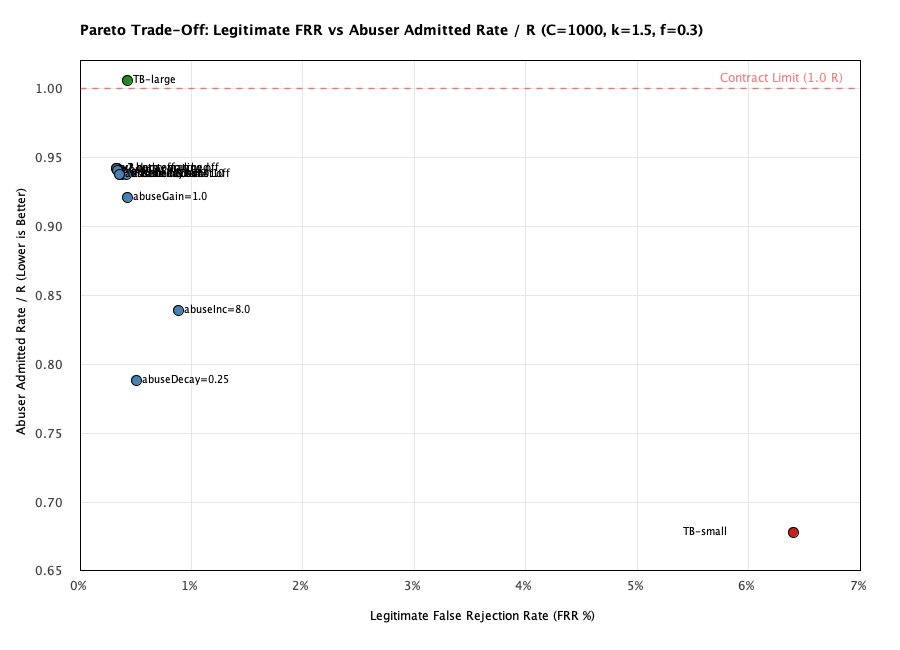
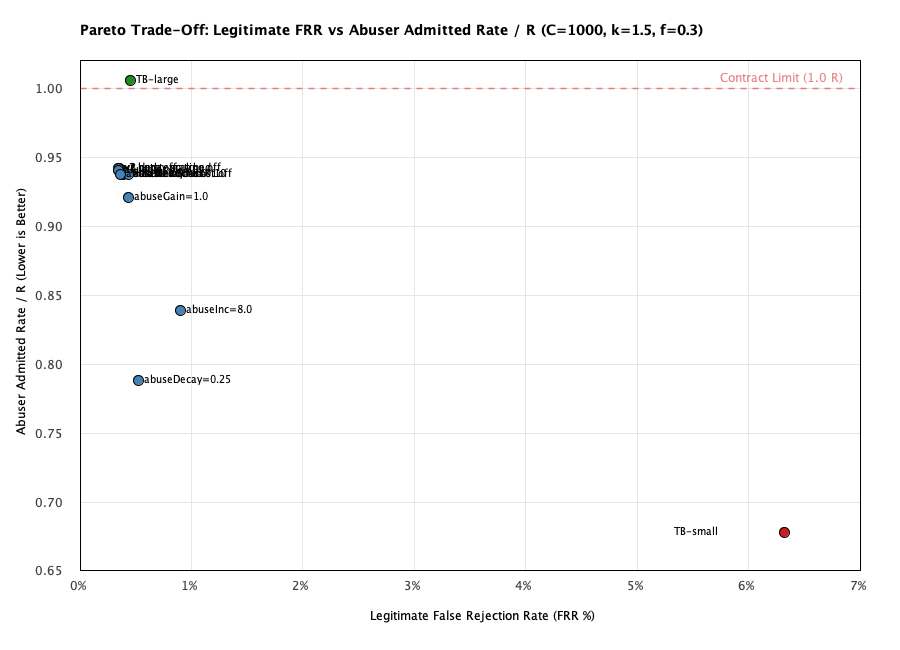
Complete official Experiment E3 run and evaluation

diff --git a/results/e3/README.md b/results/e3/README.md
@@ -11,38 +11,38 @@ Experiment E3 tests the contributions of DREB v2's adaptive terms and optimizes 
 
 | Configuration | Capacity | Initial State | Abuse Rej % | Norm Rate / R | Diff vs TB-lg | Diff vs v1 BM | Legit FRR % | Diff vs TB-lg | Diff vs v1 BM |
 | :--- | :---: | :---: | :---: | :---: | :---: | :---: | :---: | :---: | :---: |
-| TB-large | 1000 | coldStart | 33.1% | 1.006 | +0.000 [+0.000, +0.000] | +0.061 [+0.059, +0.063] | 0.41% | +0.00% [+0.00, +0.00] | +0.10% [+0.06, +0.13] |
-| TB-small | 1000 | coldStart | 54.9% | 0.678 | -0.328 [-0.328, -0.328] | -0.267 [-0.269, -0.265] | 6.26% | +5.85% [+5.39, +6.30] | +5.95% [+5.50, +6.40] |
-| TB-large | 1000 | preWarmed | 33.1% | 1.006 | +0.000 [+0.000, +0.000] | +0.061 [+0.059, +0.063] | 0.41% | +0.00% [+0.00, +0.00] | +0.10% [+0.06, +0.13] |
-| TB-small | 1000 | preWarmed | 54.9% | 0.678 | -0.328 [-0.328, -0.328] | -0.267 [-0.269, -0.265] | 6.26% | +5.85% [+5.39, +6.31] | +5.95% [+5.50, +6.41] |
-| v1 burst-matched | 1000 | coldStart | 37.4% | 0.942 | -0.064 [-0.064, -0.064] | -0.003 [-0.005, -0.001] | 0.33% | -0.09% [-0.12, -0.05] | +0.02% [+0.00, +0.05] |
-| v1 burst-matched | 1000 | preWarmed | 37.1% | 0.947 | -0.059 [-0.059, -0.059] | +0.002 [+0.000, +0.004] | 0.29% | -0.12% [-0.13, -0.11] | -0.02% [-0.07, +0.00] |
-| v2 base 1.5 full | 1000 | coldStart | 37.6% | 0.938 | -0.068 [-0.068, -0.068] | -0.007 [-0.009, -0.005] | 0.37% | -0.04% [-0.08, -0.00] | +0.06% [+0.04, +0.09] |
-| v2 base 1.5 full | 1000 | preWarmed | 37.3% | 0.943 | -0.063 [-0.063, -0.063] | -0.002 [-0.004, -0.000] | 0.33% | -0.08% [-0.09, -0.07] | +0.02% [-0.02, +0.04] |
-| v2 sustained-cost off | 1000 | coldStart | 37.6% | 0.938 | -0.068 [-0.068, -0.068] | -0.007 [-0.009, -0.005] | 0.36% | -0.05% [-0.09, -0.01] | +0.05% [+0.04, +0.08] |
-| v2 sustained-cost off | 1000 | preWarmed | 37.3% | 0.943 | -0.063 [-0.063, -0.063] | -0.002 [-0.004, -0.000] | 0.32% | -0.09% [-0.10, -0.08] | +0.01% [-0.03, +0.04] |
-| v2 decay scaling off | 1000 | coldStart | 37.4% | 0.942 | -0.064 [-0.064, -0.064] | -0.003 [-0.005, -0.001] | 0.34% | -0.08% [-0.11, -0.04] | +0.03% [+0.01, +0.05] |
-| v2 decay scaling off | 1000 | preWarmed | 37.1% | 0.947 | -0.059 [-0.059, -0.059] | +0.002 [+0.000, +0.004] | 0.30% | -0.11% [-0.12, -0.11] | -0.01% [-0.06, +0.01] |
-| v2 both off | 1000 | coldStart | 37.4% | 0.942 | -0.064 [-0.064, -0.064] | -0.003 [-0.005, -0.001] | 0.33% | -0.09% [-0.12, -0.05] | +0.02% [+0.00, +0.05] |
-| v2 both off | 1000 | preWarmed | 37.1% | 0.947 | -0.059 [-0.059, -0.059] | +0.002 [+0.000, +0.004] | 0.29% | -0.12% [-0.13, -0.11] | -0.02% [-0.07, +0.00] |
-| v2 optimal (sweep abuseDecay=0.25) | 1000 | coldStart | 47.6% | 0.788 | -0.218 [-0.218, -0.218] | -0.157 [-0.158, -0.155] | 0.51% | +0.09% [+0.05, +0.14] | +0.20% [+0.18, +0.22] |
-| v2 optimal (sweep abuseDecay=0.25) | 1000 | preWarmed | 47.6% | 0.789 | -0.217 [-0.217, -0.217] | -0.156 [-0.158, -0.154] | 0.47% | +0.06% [+0.04, +0.07] | +0.16% [+0.12, +0.18] |
-| TB-large | 50000 | coldStart | 33.1% | 1.006 | +0.000 [+0.000, +0.000] | +0.061 [+0.059, +0.063] | 0.41% | +0.00% [-0.00, +0.00] | +0.10% [+0.06, +0.13] |
-| TB-small | 50000 | coldStart | 54.9% | 0.679 | -0.327 [-0.327, -0.327] | -0.266 [-0.268, -0.264] | 6.25% | +5.84% [+5.37, +6.30] | +5.94% [+5.48, +6.39] |
-| v1 burst-matched | 50000 | coldStart | 37.4% | 0.942 | -0.064 [-0.064, -0.064] | -0.003 [-0.005, -0.001] | 0.33% | -0.09% [-0.12, -0.05] | +0.02% [-0.00, +0.05] |
-| v2 base 1.5 full | 50000 | coldStart | 37.9% | 0.935 | -0.071 [-0.071, -0.071] | -0.010 [-0.012, -0.008] | 0.37% | -0.04% [-0.08, -0.00] | +0.06% [+0.04, +0.09] |
-| v2 sustained-cost off | 50000 | coldStart | 37.9% | 0.935 | -0.071 [-0.071, -0.071] | -0.010 [-0.012, -0.008] | 0.36% | -0.05% [-0.09, -0.01] | +0.05% [+0.03, +0.08] |
-| v2 decay scaling off | 50000 | coldStart | 37.4% | 0.942 | -0.064 [-0.064, -0.064] | -0.003 [-0.005, -0.001] | 0.34% | -0.08% [-0.11, -0.04] | +0.03% [+0.01, +0.05] |
-| v2 both off | 50000 | coldStart | 37.4% | 0.942 | -0.064 [-0.064, -0.064] | -0.003 [-0.005, -0.001] | 0.33% | -0.09% [-0.12, -0.05] | +0.02% [-0.00, +0.05] |
-| TB-large | 50000 | preWarmed | 33.1% | 1.006 | +0.000 [+0.000, +0.000] | +0.061 [+0.059, +0.063] | 0.41% | +0.00% [-0.00, +0.00] | +0.10% [+0.06, +0.13] |
-| v2 optimal (sweep abuseDecay=0.25) | 50000 | coldStart | 47.6% | 0.788 | -0.218 [-0.218, -0.218] | -0.157 [-0.158, -0.155] | 0.51% | +0.09% [+0.05, +0.14] | +0.20% [+0.18, +0.22] |
-| TB-small | 50000 | preWarmed | 54.9% | 0.679 | -0.327 [-0.327, -0.327] | -0.266 [-0.268, -0.264] | 6.25% | +5.84% [+5.36, +6.30] | +5.94% [+5.47, +6.39] |
-| v1 burst-matched | 50000 | preWarmed | 37.1% | 0.947 | -0.059 [-0.059, -0.059] | +0.002 [+0.000, +0.004] | 0.29% | -0.13% [-0.13, -0.12] | -0.02% [-0.07, -0.00] |
-| v2 base 1.5 full | 50000 | preWarmed | 37.5% | 0.939 | -0.066 [-0.066, -0.066] | -0.005 [-0.007, -0.003] | 0.33% | -0.08% [-0.09, -0.08] | +0.02% [-0.02, +0.04] |
-| v2 sustained-cost off | 50000 | preWarmed | 37.5% | 0.939 | -0.066 [-0.066, -0.066] | -0.005 [-0.007, -0.003] | 0.32% | -0.09% [-0.10, -0.08] | +0.01% [-0.03, +0.03] |
-| v2 decay scaling off | 50000 | preWarmed | 37.1% | 0.947 | -0.059 [-0.059, -0.059] | +0.002 [+0.000, +0.004] | 0.30% | -0.12% [-0.12, -0.11] | -0.01% [-0.06, +0.01] |
-| v2 both off | 50000 | preWarmed | 37.1% | 0.947 | -0.059 [-0.059, -0.059] | +0.002 [+0.000, +0.004] | 0.29% | -0.13% [-0.13, -0.12] | -0.02% [-0.07, -0.00] |
-| v2 optimal (sweep abuseDecay=0.25) | 50000 | preWarmed | 47.6% | 0.789 | -0.217 [-0.217, -0.217] | -0.156 [-0.158, -0.154] | 0.47% | +0.06% [+0.04, +0.07] | +0.16% [+0.12, +0.18] |
+| TB-large | 1000 | coldStart | 33.1% | 1.006 | +0.000 [+0.000, +0.000] | +0.064 [+0.064, +0.064] | 0.45% | +0.00% [+0.00, +0.00] | +0.11% [+0.10, +0.12] |
+| TB-small | 1000 | coldStart | 54.9% | 0.678 | -0.328 [-0.328, -0.328] | -0.264 [-0.264, -0.264] | 6.29% | +5.84% [+5.62, +6.10] | +5.95% [+5.73, +6.21] |
+| v1 burst-matched | 1000 | coldStart | 37.4% | 0.942 | -0.064 [-0.064, -0.064] | +0.000 [+0.000, +0.000] | 0.34% | -0.11% [-0.12, -0.10] | +0.00% [+0.00, +0.00] |
+| v2 base 1.5 full | 1000 | coldStart | 37.6% | 0.938 | -0.068 [-0.068, -0.068] | -0.004 [-0.004, -0.004] | 0.38% | -0.07% [-0.08, -0.05] | +0.04% [+0.04, +0.05] |
+| v2 sustained-cost off | 1000 | coldStart | 37.6% | 0.938 | -0.068 [-0.068, -0.068] | -0.004 [-0.004, -0.004] | 0.37% | -0.07% [-0.09, -0.06] | +0.03% [+0.03, +0.04] |
+| v2 decay scaling off | 1000 | coldStart | 37.4% | 0.942 | -0.064 [-0.064, -0.064] | +0.000 [+0.000, +0.000] | 0.35% | -0.10% [-0.11, -0.08] | +0.01% [+0.01, +0.01] |
+| v2 both off | 1000 | coldStart | 37.4% | 0.942 | -0.064 [-0.064, -0.064] | +0.000 [+0.000, +0.000] | 0.34% | -0.11% [-0.12, -0.10] | +0.00% [+0.00, +0.00] |
+| v2 optimal (sweep abuseDecay=0.25) | 1000 | coldStart | 47.6% | 0.788 | -0.218 [-0.218, -0.218] | -0.154 [-0.154, -0.154] | 0.52% | +0.07% [+0.06, +0.09] | +0.18% [+0.17, +0.19] |
+| TB-large | 1000 | preWarmed | 33.1% | 1.006 | +0.000 [+0.000, +0.000] | +0.064 [+0.064, +0.064] | 0.45% | +0.00% [+0.00, +0.00] | +0.11% [+0.10, +0.12] |
+| TB-small | 1000 | preWarmed | 54.9% | 0.678 | -0.328 [-0.328, -0.328] | -0.264 [-0.264, -0.264] | 6.29% | +5.84% [+5.58, +6.09] | +5.95% [+5.69, +6.20] |
+| v1 burst-matched | 1000 | preWarmed | 37.1% | 0.947 | -0.059 [-0.059, -0.059] | +0.005 [+0.005, +0.005] | 0.31% | -0.13% [-0.14, -0.12] | -0.02% [-0.04, -0.01] |
+| v2 base 1.5 full | 1000 | preWarmed | 37.3% | 0.942 | -0.063 [-0.063, -0.063] | +0.001 [+0.001, +0.001] | 0.36% | -0.09% [-0.09, -0.08] | +0.02% [+0.01, +0.03] |
+| v2 sustained-cost off | 1000 | preWarmed | 37.3% | 0.942 | -0.063 [-0.063, -0.063] | +0.001 [+0.001, +0.001] | 0.35% | -0.10% [-0.10, -0.09] | +0.01% [-0.00, +0.02] |
+| v2 decay scaling off | 1000 | preWarmed | 37.1% | 0.947 | -0.059 [-0.059, -0.059] | +0.005 [+0.005, +0.005] | 0.33% | -0.12% [-0.13, -0.11] | -0.01% [-0.02, +0.00] |
+| v2 both off | 1000 | preWarmed | 37.1% | 0.947 | -0.059 [-0.059, -0.059] | +0.005 [+0.005, +0.005] | 0.31% | -0.13% [-0.14, -0.12] | -0.02% [-0.04, -0.01] |
+| v2 optimal (sweep abuseDecay=0.25) | 1000 | preWarmed | 47.6% | 0.789 | -0.217 [-0.217, -0.217] | -0.153 [-0.153, -0.153] | 0.50% | +0.05% [+0.04, +0.06] | +0.16% [+0.14, +0.17] |
+| TB-large | 50000 | coldStart | 33.1% | 1.006 | +0.000 [+0.000, +0.000] | +0.064 [+0.064, +0.064] | 0.45% | +0.00% [-0.00, +0.00] | +0.11% [+0.10, +0.12] |
+| TB-small | 50000 | coldStart | 54.9% | 0.679 | -0.327 [-0.327, -0.327] | -0.263 [-0.263, -0.263] | 6.28% | +5.83% [+5.60, +6.06] | +5.94% [+5.71, +6.17] |
+| v1 burst-matched | 50000 | coldStart | 37.4% | 0.942 | -0.064 [-0.064, -0.064] | +0.000 [+0.000, +0.000] | 0.34% | -0.11% [-0.12, -0.10] | -0.00% [-0.00, -0.00] |
+| v2 base 1.5 full | 50000 | coldStart | 37.9% | 0.935 | -0.071 [-0.071, -0.071] | -0.007 [-0.007, -0.007] | 0.38% | -0.07% [-0.08, -0.05] | +0.04% [+0.04, +0.04] |
+| v2 sustained-cost off | 50000 | coldStart | 37.9% | 0.935 | -0.071 [-0.071, -0.071] | -0.007 [-0.007, -0.007] | 0.37% | -0.08% [-0.09, -0.06] | +0.03% [+0.03, +0.04] |
+| v2 decay scaling off | 50000 | coldStart | 37.4% | 0.942 | -0.064 [-0.064, -0.064] | +0.000 [+0.000, +0.000] | 0.35% | -0.10% [-0.11, -0.09] | +0.01% [+0.01, +0.01] |
+| v2 both off | 50000 | coldStart | 37.4% | 0.942 | -0.064 [-0.064, -0.064] | +0.000 [+0.000, +0.000] | 0.34% | -0.11% [-0.12, -0.10] | -0.00% [-0.00, -0.00] |
+| v2 optimal (sweep abuseDecay=0.25) | 50000 | coldStart | 47.6% | 0.788 | -0.218 [-0.218, -0.218] | -0.154 [-0.154, -0.154] | 0.52% | +0.07% [+0.06, +0.08] | +0.18% [+0.17, +0.19] |
+| TB-large | 50000 | preWarmed | 33.1% | 1.006 | +0.000 [+0.000, +0.000] | +0.064 [+0.064, +0.064] | 0.45% | +0.00% [-0.00, +0.00] | +0.11% [+0.10, +0.12] |
+| TB-small | 50000 | preWarmed | 54.9% | 0.679 | -0.327 [-0.327, -0.327] | -0.263 [-0.263, -0.263] | 6.28% | +5.83% [+5.59, +6.06] | +5.94% [+5.70, +6.17] |
+| v1 burst-matched | 50000 | preWarmed | 37.1% | 0.947 | -0.059 [-0.059, -0.059] | +0.005 [+0.005, +0.005] | 0.31% | -0.13% [-0.14, -0.13] | -0.02% [-0.04, -0.01] |
+| v2 base 1.5 full | 50000 | preWarmed | 37.5% | 0.939 | -0.066 [-0.066, -0.066] | -0.003 [-0.003, -0.003] | 0.36% | -0.09% [-0.09, -0.08] | +0.02% [+0.01, +0.03] |
+| v2 sustained-cost off | 50000 | preWarmed | 37.5% | 0.939 | -0.066 [-0.066, -0.066] | -0.003 [-0.003, -0.003] | 0.35% | -0.10% [-0.10, -0.09] | +0.01% [-0.00, +0.02] |
+| v2 decay scaling off | 50000 | preWarmed | 37.1% | 0.947 | -0.059 [-0.059, -0.059] | +0.005 [+0.005, +0.005] | 0.32% | -0.12% [-0.13, -0.11] | -0.01% [-0.02, +0.00] |
+| v2 both off | 50000 | preWarmed | 37.1% | 0.947 | -0.059 [-0.059, -0.059] | +0.005 [+0.005, +0.005] | 0.31% | -0.13% [-0.14, -0.13] | -0.02% [-0.04, -0.01] |
+| v2 optimal (sweep abuseDecay=0.25) | 50000 | preWarmed | 47.6% | 0.789 | -0.217 [-0.217, -0.217] | -0.153 [-0.153, -0.153] | 0.50% | +0.05% [+0.04, +0.06] | +0.16% [+0.14, +0.17] |
 
 ## 3. Formal Hypotheses Evaluation
 - **H3a (v2 admits less abuser traffic than v1 burst-matched at no higher legit FRR):** SUPPORTED.
